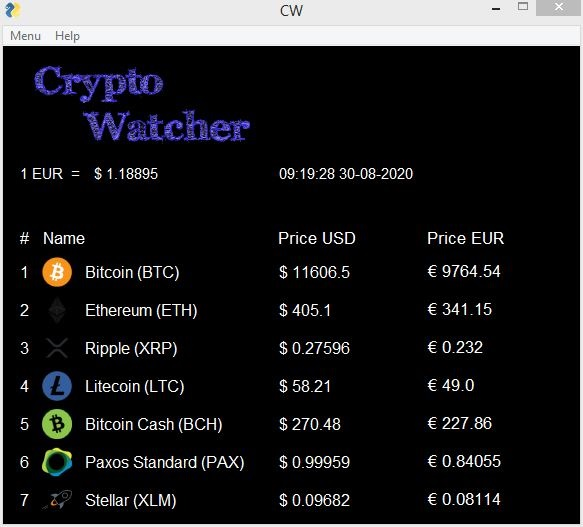
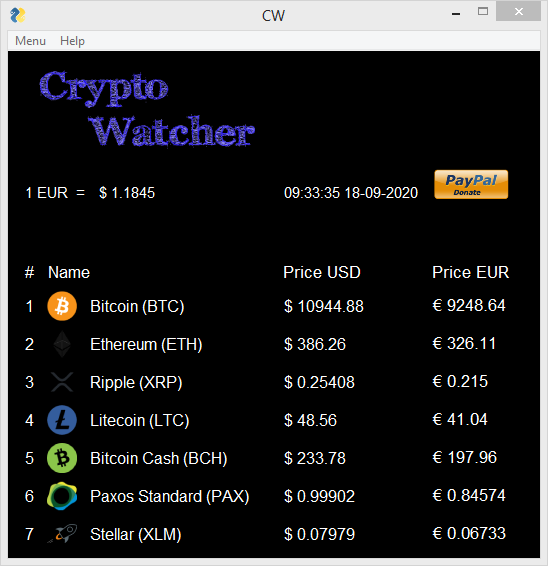
update add button donate paypal

diff --git a/cw.py b/cw.py
@@ -213,16 +213,33 @@ def create_main_window(settings):
     layout =   [[sg.Menu(menu_def)],
                 [sg.Image('png/cw.png', size=(250, 100))],
                 [sg.Text('1 EUR  =', font=('Helvetica', 11)), sg.Text('', size=(19,1), font=('Helvetica', 11), key='es'),
-                 sg.Text('', size=(15,1), font=('Helvetica', 11), key='_DATE_'), sg.Button('Donate',size=(11,1), font=('Helvetica', 9), button_color=('white', 'green'))],
+                 sg.Text('', size=(15,1), font=('Helvetica', 11), key='_DATE_'),
+                 sg.Button('', key='paypal', size=(12,1), font=('Helvetica', 9), button_color=(sg.theme_background_color(), sg.theme_background_color()),
+                           image_filename='png/paypal.png', image_size=(80, 50), image_subsample=2, border_width=0)],
                 [sg.Text('')],
-                [sg.Text('# ', font=('Helvetica', 13), size=(1,1)), sg.Text('Name', font=('Helvetica', 13), size=(24,1)), sg.Text(' Price USD', size=(15,1), font=('Helvetica', 13)), sg.Text(' Price EUR', size=(10,1), font=('Helvetica', 13))],
-                [sg.Text('1 ', font=('Helvetica', 12), size=(1,1)), sg.Image('png/bit.png', size=(30, 30)), sg.Text('Bitcoin (BTC)', font=('Helvetica', 12), size=(20,1)), sg.Text('', size=(15,1), font=('Helvetica', 12),  key='coin'), sg.Text('', size=(10,1), font=('Helvetica', 13),  key='btceu')],
-                [sg.Text('2 ', font=('Helvetica', 12), size=(1,1)), sg.Image('png/eth.png', size=(30, 30)), sg.Text('Ethereum (ETH)', font=('Helvetica', 12), size=(20,1)), sg.Text('', size=(15,1), font=('Helvetica', 12),  key='ethe'), sg.Text('', size=(10,1), font=('Helvetica', 13),  key='eteuro')],
-                [sg.Text('3 ', font=('Helvetica', 12), size=(1,1)), sg.Image('png/xrp.png', size=(30, 30)), sg.Text('Ripple (XRP)', font=('Helvetica', 12), size=(20,1)), sg.Text('', size=(15,1), font=('Helvetica', 12),  key='xrp'), sg.Text('', size=(10,1), font=('Helvetica', 13),  key='xrpeu')],
-                [sg.Text('4 ', font=('Helvetica', 12), size=(1,1)), sg.Image('png/lite.png', size=(30, 30)), sg.Text('Litecoin (LTC)', font=('Helvetica', 12), size=(20,1)), sg.Text('', size=(15,1), font=('Helvetica', 12),  key='ltcusd'), sg.Text('', size=(10,1), font=('Helvetica', 13),  key='ltceur')],
-                [sg.Text('5 ', font=('Helvetica', 12), size=(1,1)), sg.Image('png/bch.png', size=(30, 30)), sg.Text('Bitcoin Cash (BCH)', font=('Helvetica', 12), size=(20,1)), sg.Text('', size=(15,1), font=('Helvetica', 12),  key='bcusd'), sg.Text('', size=(10,1), font=('Helvetica', 13),  key='bceur')],
-                [sg.Text('6 ', font=('Helvetica', 12), size=(1,1)), sg.Image('png/pax.png', size=(30, 30)), sg.Text('Paxos Standard (PAX)', font=('Helvetica', 12), size=(20,1)), sg.Text('', size=(15,1), font=('Helvetica', 12),  key='paxu'), sg.Text('', size=(10,1), font=('Helvetica', 13),  key='paxe')],
-                [sg.Text('7 ', font=('Helvetica', 12), size=(1,1)), sg.Image('png/stellar.png', size=(30, 30)), sg.Text('Stellar (XLM)', font=('Helvetica', 12), size=(20,1)), sg.Text('', size=(15,1), font=('Helvetica', 12),  key='xlmu'), sg.Text('', size=(10,1), font=('Helvetica', 13),  key='xlme')]]
+                [sg.Text('# ', font=('Helvetica', 13), size=(1,1)), sg.Text('Name', font=('Helvetica', 13), size=(24,1)),
+                 sg.Text(' Price USD', size=(15,1), font=('Helvetica', 13)), sg.Text(' Price EUR', size=(10,1), font=('Helvetica', 13))],
+                [sg.Text('1 ', font=('Helvetica', 12), size=(1,1)), sg.Image('png/bit.png', size=(30, 30)),
+                 sg.Text('Bitcoin (BTC)', font=('Helvetica', 12), size=(20,1)), sg.Text('', size=(15,1), font=('Helvetica', 12),  key='coin'),
+                 sg.Text('', size=(10,1), font=('Helvetica', 13),  key='btceu')],
+                [sg.Text('2 ', font=('Helvetica', 12), size=(1,1)), sg.Image('png/eth.png', size=(30, 30)),
+                 sg.Text('Ethereum (ETH)', font=('Helvetica', 12), size=(20,1)), sg.Text('', size=(15,1), font=('Helvetica', 12),  key='ethe'),
+                 sg.Text('', size=(10,1), font=('Helvetica', 13),  key='eteuro')],
+                [sg.Text('3 ', font=('Helvetica', 12), size=(1,1)), sg.Image('png/xrp.png', size=(30, 30)),
+                 sg.Text('Ripple (XRP)', font=('Helvetica', 12), size=(20,1)), sg.Text('', size=(15,1), font=('Helvetica', 12),  key='xrp'),
+                 sg.Text('', size=(10,1), font=('Helvetica', 13),  key='xrpeu')],
+                [sg.Text('4 ', font=('Helvetica', 12), size=(1,1)), sg.Image('png/lite.png', size=(30, 30)),
+                 sg.Text('Litecoin (LTC)', font=('Helvetica', 12), size=(20,1)), sg.Text('', size=(15,1), font=('Helvetica', 12),  key='ltcusd'),
+                 sg.Text('', size=(10,1), font=('Helvetica', 13),  key='ltceur')],
+                [sg.Text('5 ', font=('Helvetica', 12), size=(1,1)), sg.Image('png/bch.png', size=(30, 30)),
+                 sg.Text('Bitcoin Cash (BCH)', font=('Helvetica', 12), size=(20,1)), sg.Text('', size=(15,1), font=('Helvetica', 12),  key='bcusd'),
+                 sg.Text('', size=(10,1), font=('Helvetica', 13),  key='bceur')],
+                [sg.Text('6 ', font=('Helvetica', 12), size=(1,1)), sg.Image('png/pax.png', size=(30, 30)),
+                 sg.Text('Paxos Standard (PAX)', font=('Helvetica', 12), size=(20,1)), sg.Text('', size=(15,1), font=('Helvetica', 12),  key='paxu'),
+                 sg.Text('', size=(10,1), font=('Helvetica', 13),  key='paxe')],
+                [sg.Text('7 ', font=('Helvetica', 12), size=(1,1)), sg.Image('png/stellar.png', size=(30, 30)),
+                 sg.Text('Stellar (XLM)', font=('Helvetica', 12), size=(20,1)), sg.Text('', size=(15,1), font=('Helvetica', 12),  key='xlmu'),
+                 sg.Text('', size=(10,1), font=('Helvetica', 13),  key='xlme')]]
 
     return sg.Window('CW', layout=layout, font='Helvetica 18', right_click_menu=right_click_menu)
 
@@ -279,7 +296,7 @@ def main():
                 window = None
                 save_settings(SETTINGS_FILE, settings, values)
 
-        elif event == 'Donate':
+        elif event == 'paypal':
             webbrowser.open_new_tab("https://www.paypal.com/donate/?cmd=_s-xclick&hosted_button_id=PFB6A6HLAQHC2&source=url")
         
         

diff --git a/cw-web.py b/cw-web.py
@@ -218,8 +218,7 @@ def create_main_window(settings):
     return sg.Window('CW', layout=layout,
                      font='Helvetica 18',
                      web_ip='127.0.0.1',
-                     web_port=8888,
-                     )
+                     web_port=8888)
 
 def main():
     window, settings = None, load_settings(SETTINGS_FILE, DEFAULT_SETTINGS )

diff --git a/readme.md b/readme.md
@@ -1,4 +1,4 @@
-Crypto-watcher is simple program showing price of cryptocurrency in USD and EUR.
+Crypto-watcher is simple program showing price of cryptocurrency in USD and EUR. It's simple to use and everyone can use it.
 
 List of cryptocurrency:
 
@@ -17,7 +17,7 @@ List of cryptocurrency:
 7) Xlm - Stellar
 
 
-Programmed in python with PySimpleGUI.
+Programed in python with pysimplegui.
 
 How it works:
 
@@ -25,14 +25,13 @@ Program sends requests on Bitstamp API and recive back prices of cryptocurrency'
 
 How to use:
 
-Python
+# Python
 
 pip3 install -r requirements.txt
 
 python3 cw.py
 
 python3 cw-web.py
-
 
 Added standalone Web App with PySimpleGUIWeb.
 
